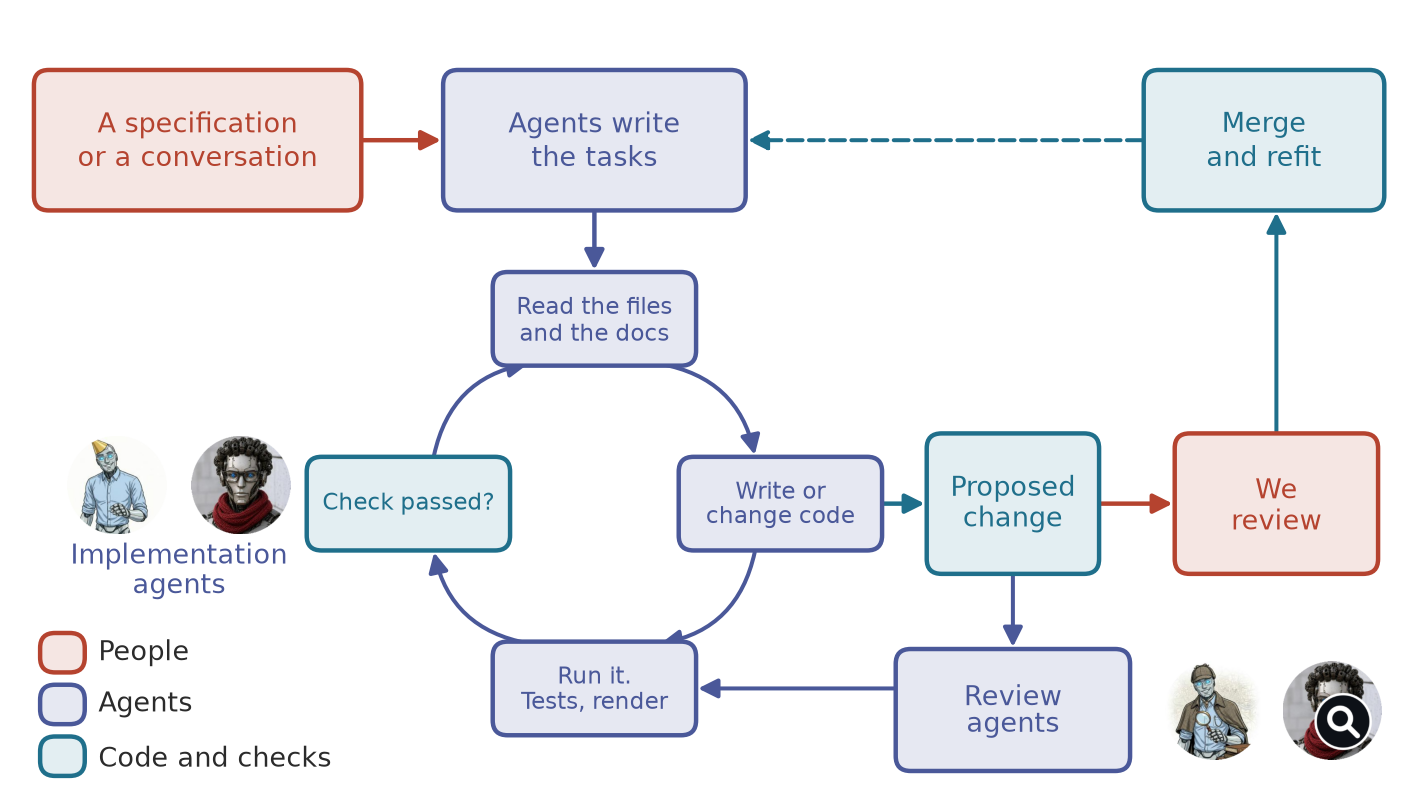
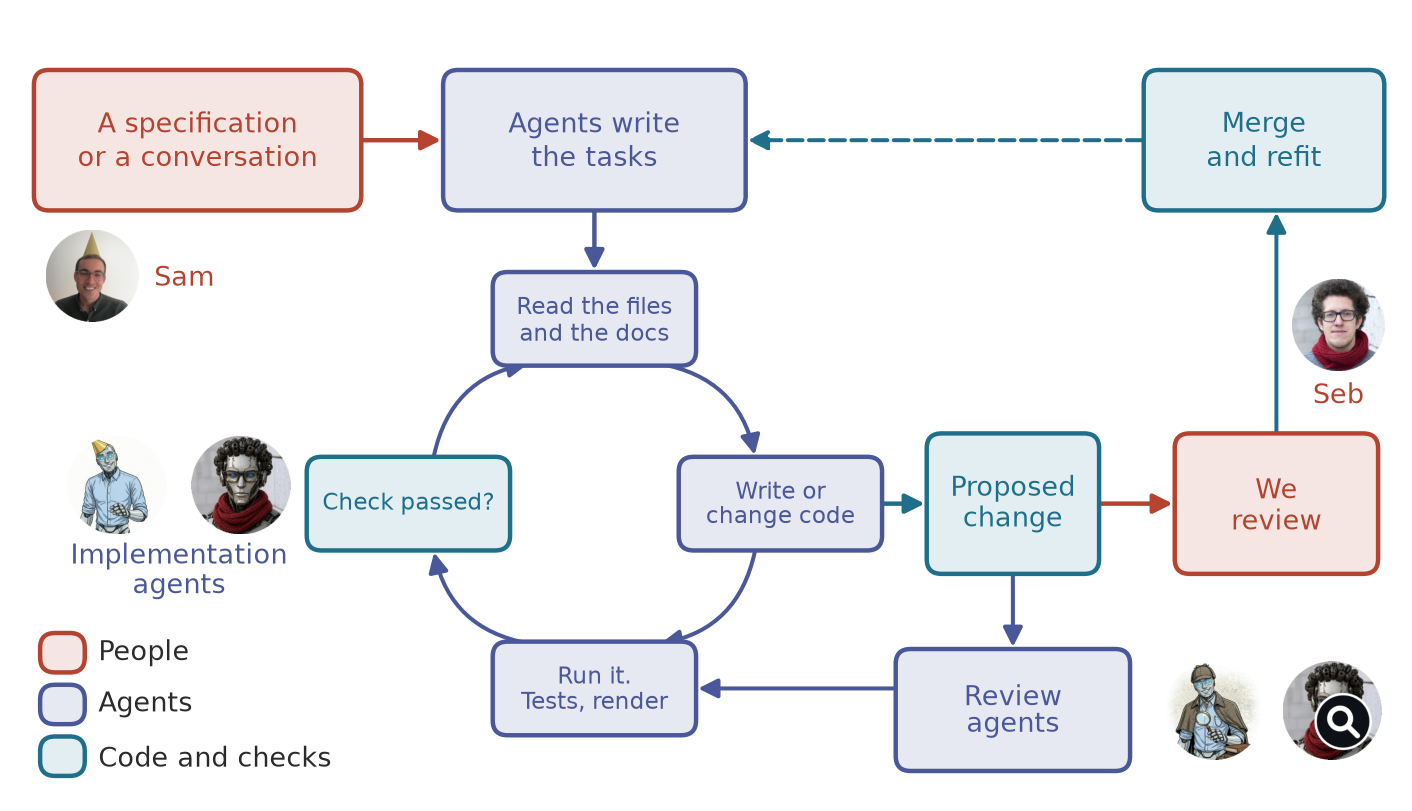
feat: Sam builds and Seb reviews, in the EpiNow2 schematic

Changed region(s): [[0.9037, 0.3391, 0.9972, 0.4932], [0.0312, 0.2774, 0.0935, 0.4007], [0.1246, 0.3391, 0.1558, 0.3699]]

diff --git a/scripts/agents-loop.py b/scripts/agents-loop.py
@@ -137,6 +137,11 @@ def agent_loop():
     label(ax, 1.25, 1.75, "Implementation\nagents", colour=SLATE, fs=12)
     avatar(ax, "figures/seabbs-review-bot.jpg", 9.6, 0.62)
     avatar(ax, "figures/sbfnk-review-bot.png", 10.55, 0.62)
+    # The people: here Sam builds a feature and Seb reviews it.
+    avatar(ax, "figures/sam.jpg", 0.55, 4.15, size=0.75)
+    label(ax, 1.05, 4.15, "Sam", colour=BRICK, fs=12, ha="left")
+    avatar(ax, "figures/seb.jpg", 10.6, 3.75, size=0.75)
+    label(ax, 10.6, 3.2, "Seb", colour=BRICK, fs=12)
     # Colour key: people come in at two points only.
     for k, (c, t) in enumerate([(BRICK, "People"), (SLATE, "Agents"),
                                 (TEAL, "Code and checks")]):

diff --git a/notes/steers.md b/notes/steers.md
@@ -469,3 +469,7 @@ straight after "Where can agents be used ...", before the examples, and out
 of the talk plan.
 
 > Summary: "using the time we have got back from agents" or similar.
+
+> "How we use agents to develop EpiNow2": put my and Seb's pictures in the
+> schematic. The story here is that I am building a feature and Seb is
+> reviewing. Note in the caption that it also runs the other way around.
